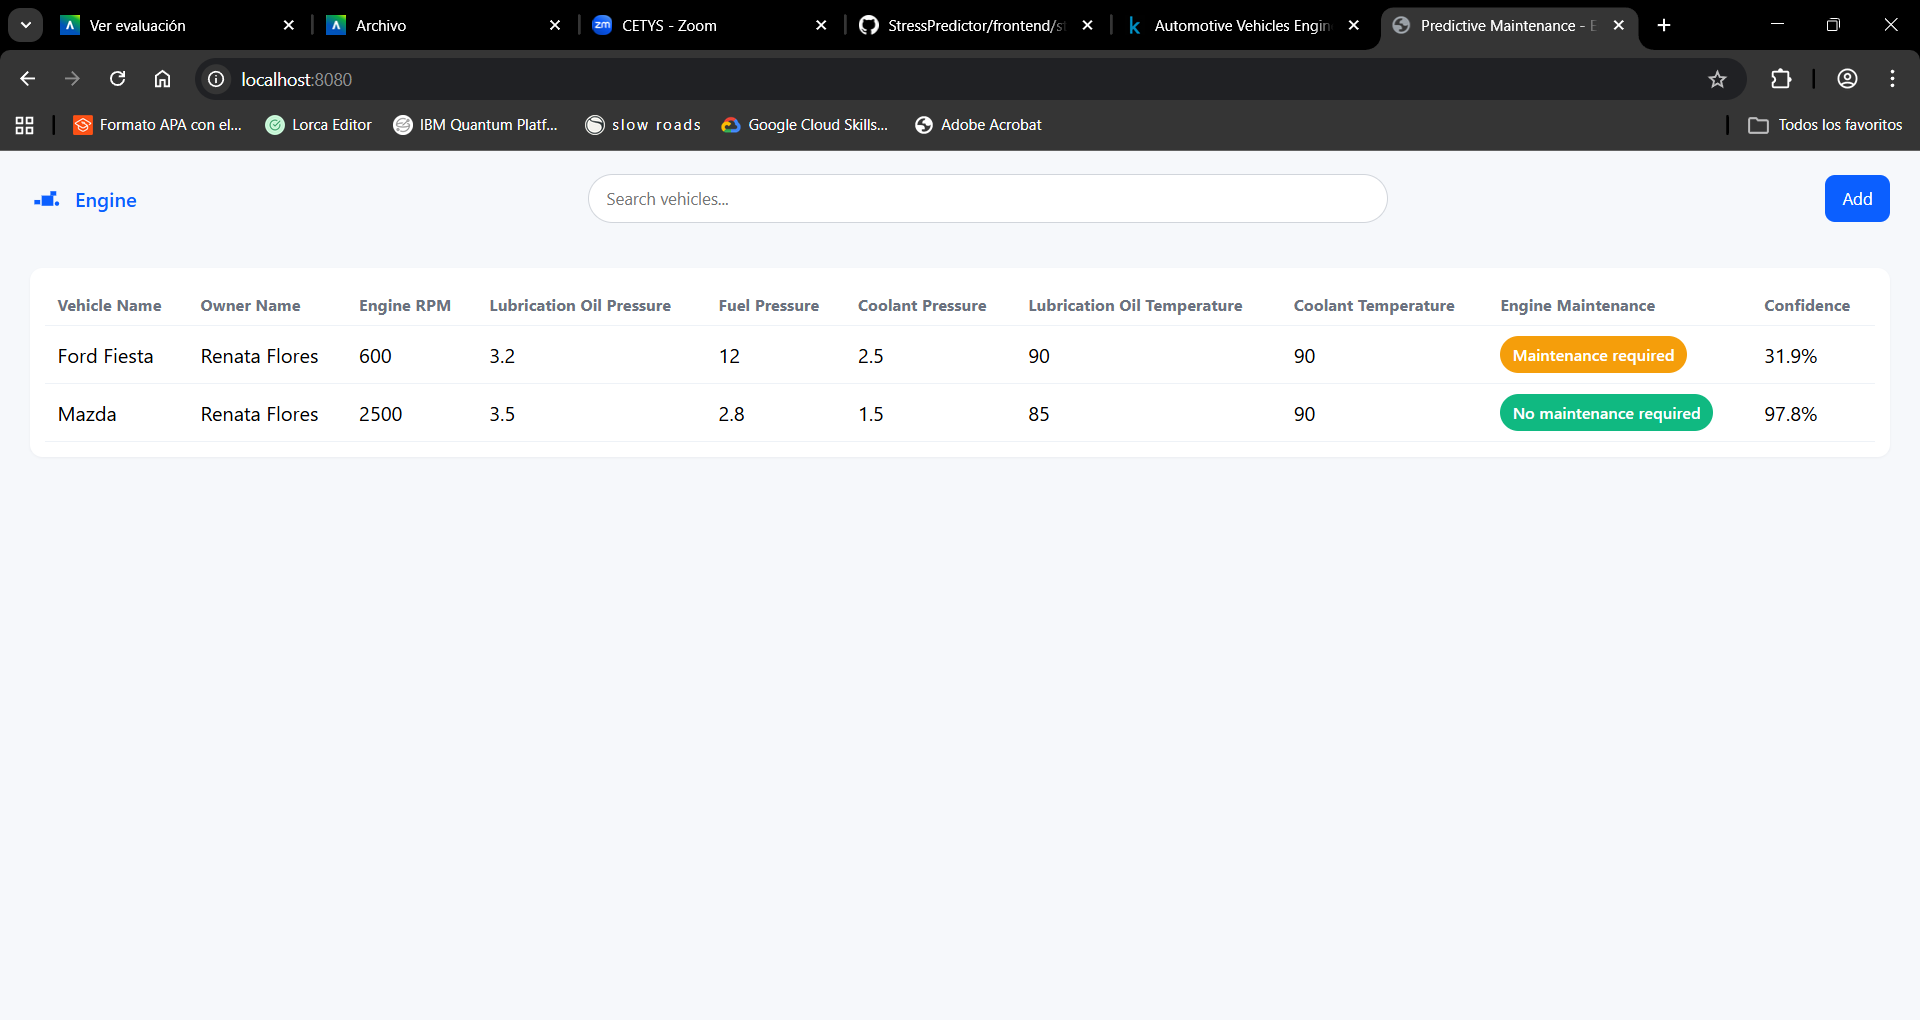
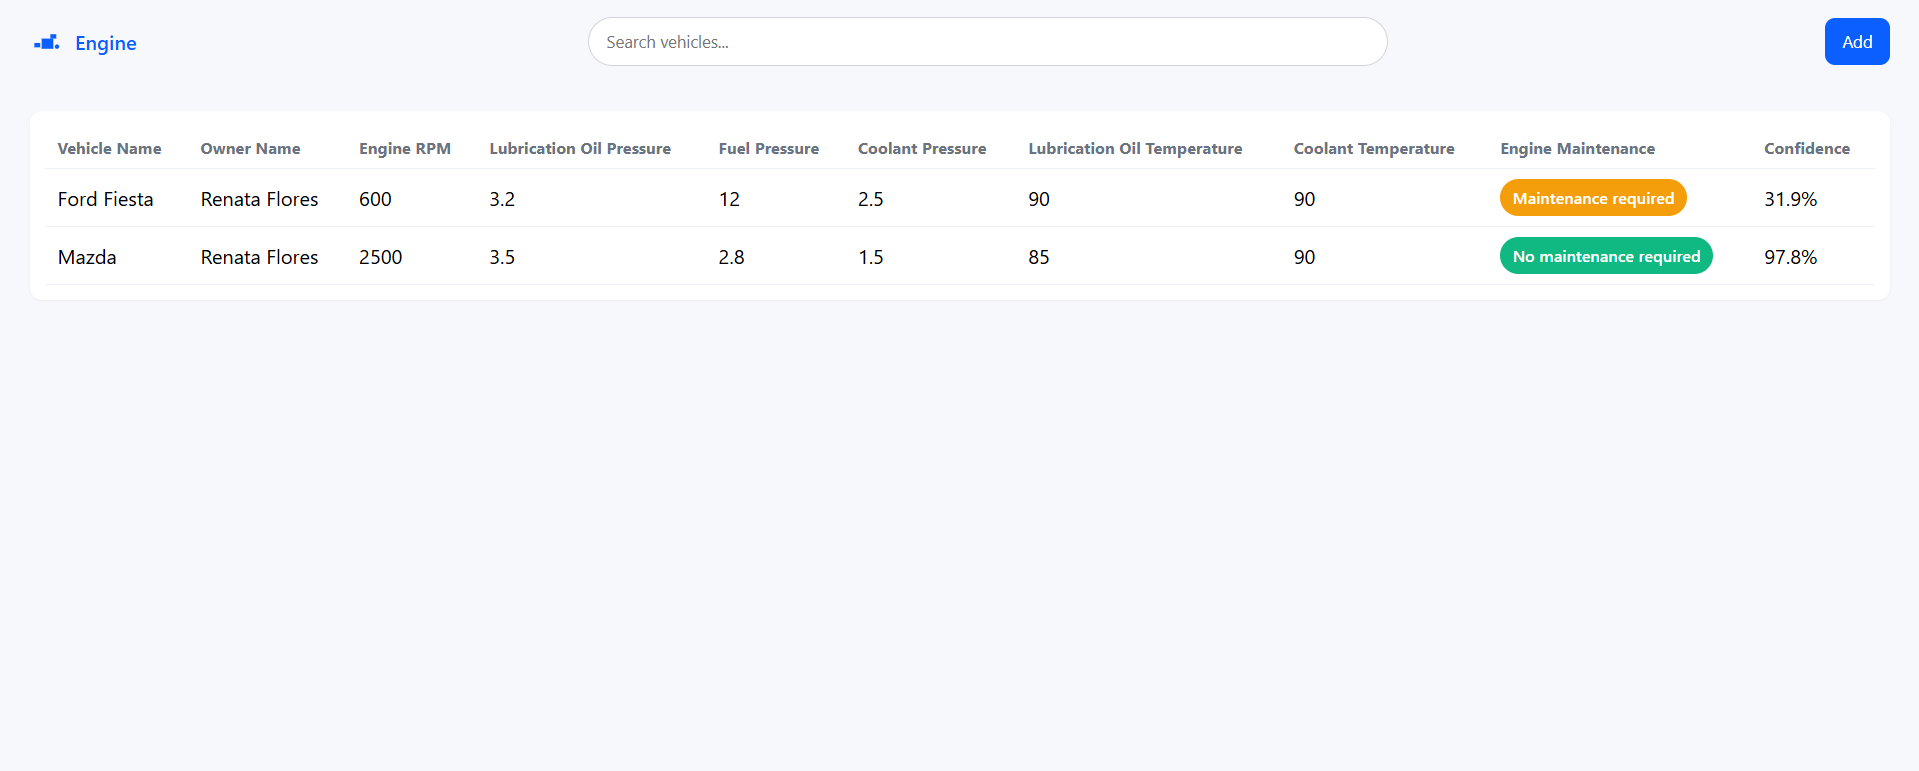
add web application section and image to README

diff --git a/3. ml-model/README.md b/3. ml-model/README.md
@@ -89,3 +89,7 @@ inp = {
 out = session.run(None, inp)
 print(out)
 ```
+
+## Web Application
+
+![alt text](image.png)
